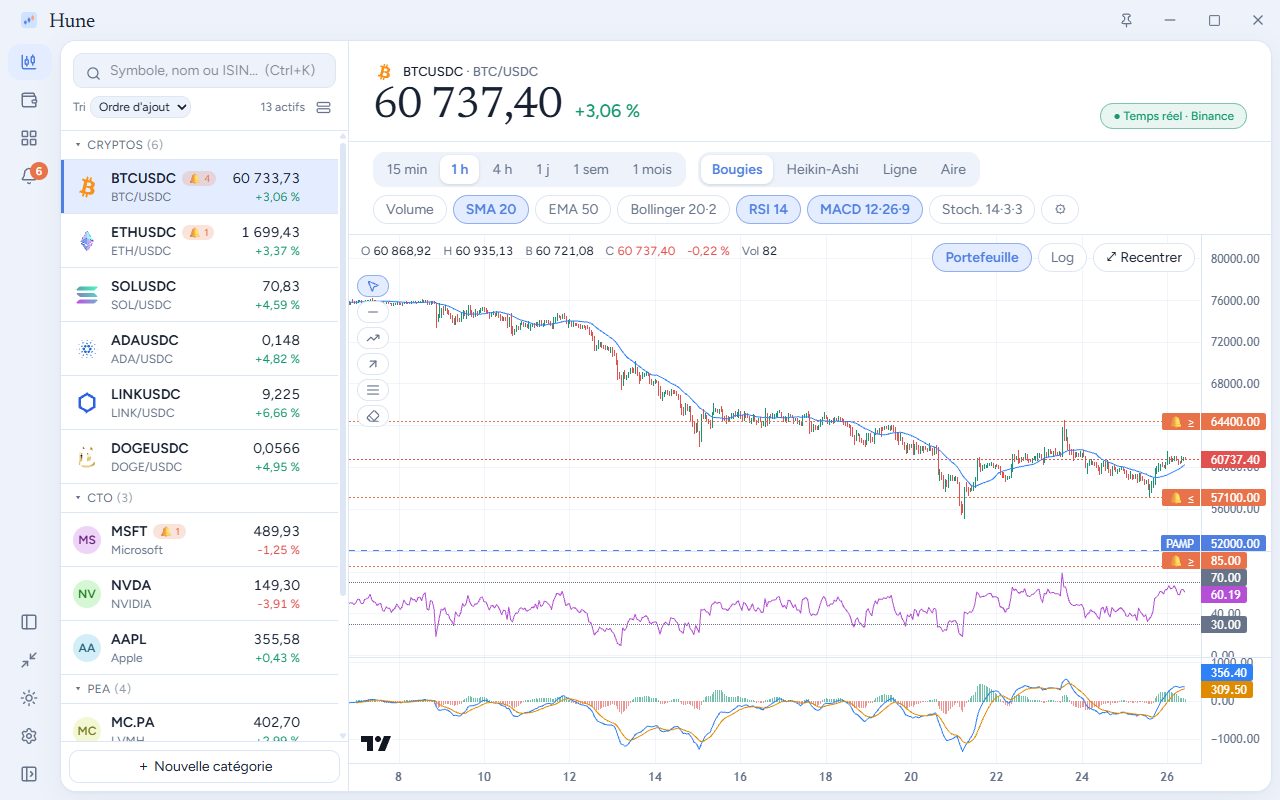
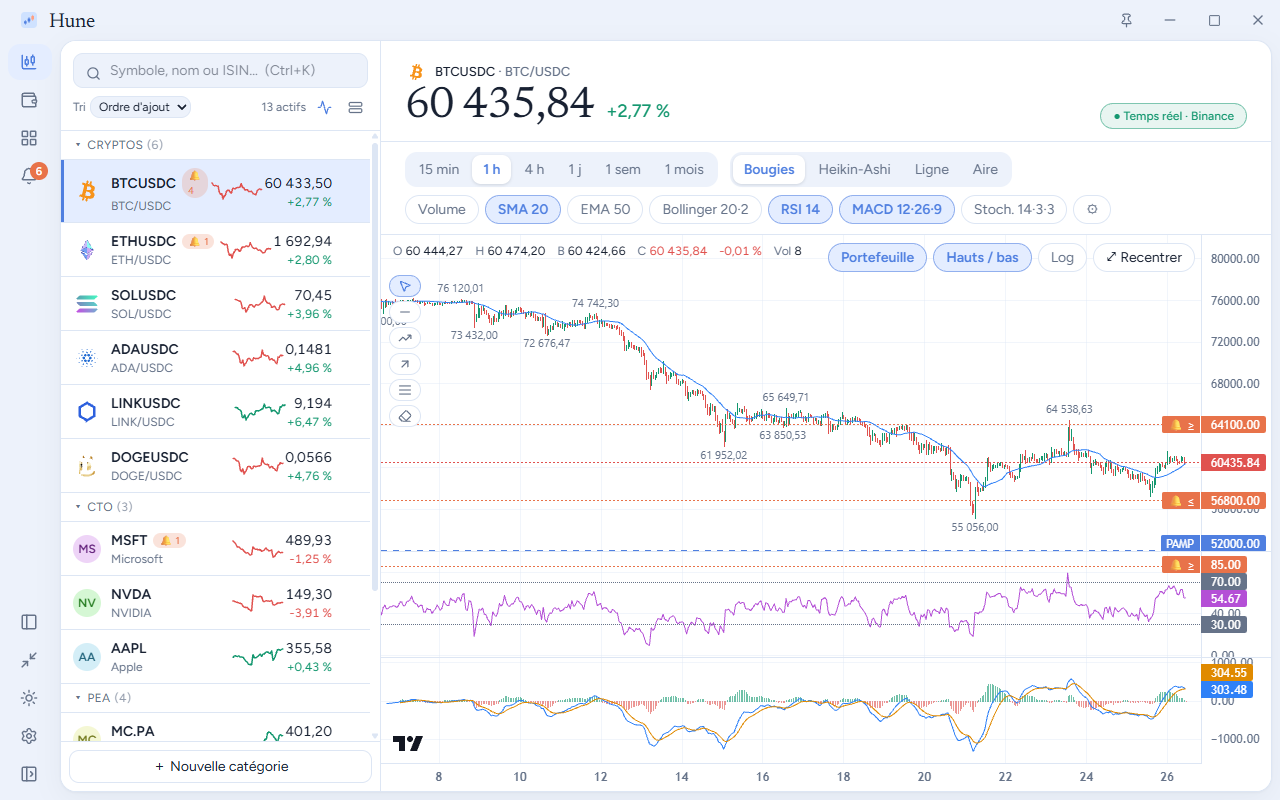
Hune 0.10.0 : README, changelog et captures

diff --git a/README.md b/README.md
@@ -35,6 +35,8 @@ Hune réunit ce qui sert au quotidien (graphiques, indicateurs, alertes, portefe
 
 Chandeliers de **15 min à 1 mois** (15 min, 1 h, 4 h, 1 j, 1 sem, 1 mois), Heikin-Ashi, ligne ou aire. SMA, EMA, bandes de Bollinger, RSI, MACD, stochastique et volume, tous **paramétrables**, avec échelle logarithmique, légende OHLC et recentrage en un geste (vue par défaut : journalier, 6 mois, volume + SMA + EMA + RSI). Cryptos en temps réel via Binance, actions via Yahoo Finance (données différées).
 
+**Analyse** : les **valeurs des plus hauts et plus bas dominants** sont écrites sur le graphique (bouton « Hauts / bas », nombre d'étiquettes adapté au zoom).
+
 **Outils de tracé** : ligne horizontale, ligne de tendance, rayon, retracement de **Fibonacci** et gomme. Les tracés sont mémorisés par actif et suivent le zoom. **Votre portefeuille sur le graphique** : PAMP, objectif (TP) et repères d'achat/vente de vos transactions importées.
 
 **Historique long** : à partir du journalier, choisissez la profondeur *Standard*, *5 ans* ou *Max*, ou **dézoomez simplement** : au-delà de la première bougie, Hune charge la profondeur suivante. Binance remonte jusqu'au début de la cotation de la paire (BTC/USDC : 2018, BTC/USDT : 2017) ; Yahoo remonte jusqu'à l'introduction en bourse (Microsoft : 1986) ou à la création de la crypto (BTC : 2014). Aucune clé n'est nécessaire. En intraday, les sources limitent elles-mêmes la profondeur.
@@ -54,7 +56,7 @@ Prix, variation en %, RSI, cours qui franchit une moyenne mobile, croisement MAC
 
 Saisissez vos lots (quantité, prix d'achat moyen, objectif, plateforme) : Hune calcule la **valeur en euros ou en dollars** (bascule d'un clic, choix mémorisé, conversion des devises), le **P&L latent**, le poids de chaque ligne, la distance à l'objectif et la répartition par catégorie et par plateforme. Un bouton crée les alertes aux objectifs en un clic. Vous avez un historique d'achats et de ventes (export CoinMarketCap, courtier, exchange) ? **Importez le CSV** : Hune reconstitue quantités et prix d'achat moyens, et vous montre le résultat avant d'écrire quoi que ce soit.
 
-Un **graphique de l'évolution de la valeur** (24 h à tout l'historique, reconstitué localement à partir de vos transactions et des cours), la variation du jour, la **base de coût**, la meilleure et la moins bonne performance, un **filtre par plateforme** (Ledger, PEA, exchange…) et un onglet **Transactions** complètent la vue. Les cryptos s'affichent avec leur **icône**, embarquée dans l'application : aucune image n'est téléchargée, donc rien ne révèle ce que vous suivez.
+Un **graphique de l'évolution de la valeur** (24 h à tout l'historique, reconstitué localement à partir de vos transactions et des cours), la variation du jour, la **base de coût**, la meilleure et la moins bonne performance, un **filtre par plateforme** (Ledger, PEA, exchange…) et un onglet **Transactions** (avec le **gain réalisé** de chaque vente) complètent la vue ; répartition en **camembert**, et **export CSV** des positions et des transactions pour Excel. Les cryptos s'affichent avec leur **icône**, embarquée dans l'application : aucune image n'est téléchargée, donc rien ne révèle ce que vous suivez.
 
 <p align="center">
   <picture>
@@ -76,7 +78,7 @@ Une carte thermique de votre watchlist par catégorie, les plus fortes hausses e
 
 ### Un affichage qui s'adapte
 
-Barre de titre intégrée, navigation latérale que l'on peut **réduire aux seules icônes**, liste d'actifs masquable (`L`) et affichable **sur une ligne par actif** pour en voir davantage, **mode compact** (une petite fenêtre qui ne montre que la liste et les prix, idéale à côté d'un autre travail) et option **garder au premier plan**. Trois thèmes : clair, sombre ou automatique.
+Barre de titre intégrée, navigation latérale que l'on peut **réduire aux seules icônes**, liste d'actifs masquable (`L`) affichable **sur une ligne par actif** pour en voir davantage, avec des **mini-courbes de 7 jours**, **mode compact** (une petite fenêtre qui ne montre que la liste et les prix, idéale à côté d'un autre travail) et option **garder au premier plan**. Trois thèmes : clair, sombre ou automatique.
 
 <table>
   <tr>

diff --git a/CHANGELOG.md b/CHANGELOG.md
@@ -3,6 +3,18 @@
 Toutes les évolutions notables de Hune. Format inspiré de [Keep a Changelog](https://keepachangelog.com/fr/1.1.0/) ; les versions suivent [SemVer](https://semver.org/lang/fr/).
 Le texte de chaque version sert de notes pour la release GitHub (`scripts/publier.ps1`).
 
+## [0.10.0] - 2026-11-26
+
+### Ajouté
+- **Valeurs aux sommets et aux creux** du graphique, comme sur ProRealTime : les plus hauts et plus bas dominants (au-delà de leurs bougies voisines) sont étiquetés avec leur prix, ainsi que le plus haut et le plus bas de la vue. Le nombre d'étiquettes s'adapte au zoom pour rester lisible. Bouton « Hauts / bas » (activé par défaut, choix mémorisé).
+- **Export CSV du portefeuille** : positions (tableau affiché, devise, plateforme et filtre appliqués) et transactions avec le gain réalisé de chaque vente. Séparateur « ; », virgule décimale et BOM pour Excel ; les textes qui ressemblent à une formule sont neutralisés.
+- **Gains réalisés** sur les ventes de l'historique de transactions importé (méthode du prix moyen, hors frais) : carte « Réalisé » et colonne dans l'onglet Transactions.
+- **Camembert de répartition** (par catégorie et par plateforme) avec légende et pourcentages.
+- **Mini-courbes de 7 jours** dans la liste d'actifs (bouton pour les masquer ; résultats gardés 30 minutes, aucune requête supplémentaire si désactivées).
+
+### Corrigé
+- Les boutons en haut du graphique ne recouvrent plus la légende OHLC sur une fenêtre étroite.
+
 ## [0.9.0] - 2026-11-26
 
 ### Ajouté
